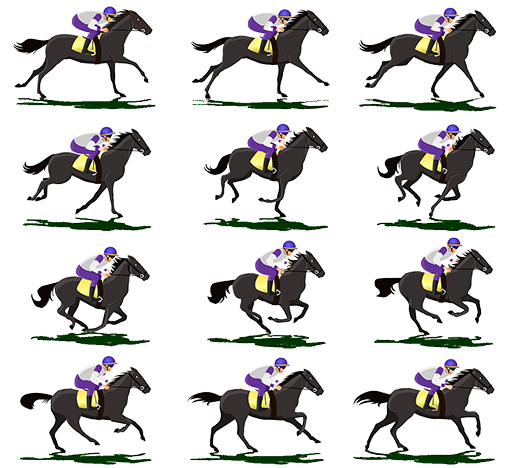
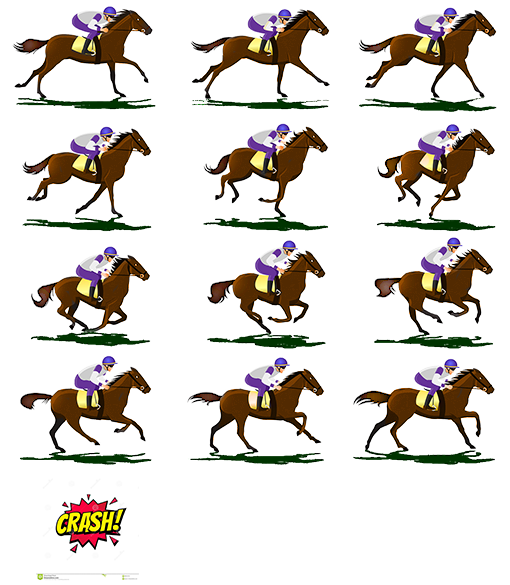
Crash

diff --git a/js/entities/entities.min.js b/js/entities/entities.min.js
@@ -1,1 +1,1 @@
-game.BirdEntity=me.Entity.extend({init:function(a,c){var b={};b.image="player";b.width=170;b.height=117;this._super(me.Entity,"init",[a,c,b]);this.alwaysUpdate=true;this.body.gravity=0.2;this.maxAngleRotation=Number.prototype.degToRad(-30);this.maxAngleRotationDown=Number.prototype.degToRad(35);this.renderable.addAnimation("flying",[0,1,2,3,4,5,6,7,8,9,10,11,12]);this.renderable.addAnimation("idle",[0]);this.renderable.setCurrentAnimation("flying");this.body.removeShapeAt(0);this.body.addShape(new me.Polygon(0,0,[new me.Vector2d(-50,25),new me.Vector2d(-50,-25),new me.Vector2d(50,0)]));this.flyTween=new me.Tween(this.pos);this.flyTween.easing(me.Tween.Easing.Exponential.InOut);this.currentAngle=0;this.angleTween=new me.Tween(this);this.angleTween.easing(me.Tween.Easing.Exponential.InOut);this.endTween=null;this.collided=false;this.gravityForce=0.2},update:function(c){var b=this;this.pos.x=100;if(!game.data.start){return this._super(me.Entity,"update",[c])}this._super(me.Entity,"update",[c]);if(me.input.keyStatus("fly")){game.data.pressed=game.data.pressed||[];game.data.pressed.push(Math.round(game.data.steps*100));this.gravityForce-=0.5}else{this.gravityForce+=0.2}if(this.gravityForce<-2){this.gravityForce=-2}if(this.gravityForce>2){this.gravityForce=2}this.pos.y+=me.timer.tick*this.gravityForce;var d=900-this.pos.y;d=d/500;me.collision.check(this);game.data.steps+=0.01;var a=300;if(this.pos.y<=a||this.collided){game.data.start=false;this.endAnimation();return false}return true},onCollision:function(a){var b=a.b;if(b.type==="horse"||b.type==="fence"){me.device.vibrate(500);this.collided=true}},endAnimation:function(){me.game.viewport.fadeOut("#fff",100);var a=this.pos.y;this.endTween=new me.Tween(this.pos);this.endTween.easing(me.Tween.Easing.Exponential.InOut);this.flyTween.stop();this.renderable.currentTransform.identity();this.renderable.currentTransform.rotate(Number.prototype.degToRad(90));var b=me.game.viewport.height-this.renderable.width/2-82;this.endTween.to({y:a},1000).to({y:b},1000).onComplete(function(){me.state.change(me.state.GAME_OVER)});this.endTween.start()}});game.DeskEntity=me.Entity.extend({init:function(a,g){var c={};var b=true;if(game.random()>0.5){b=false;c.image=this.image=me.loader.getImage("desk_lrg");c.width=375;c.height=400;c.framewidth=375;c.frameheight=400;a=a-80}else{c.image=this.image=me.loader.getImage("desk_sml");c.width=222;c.height=354;c.framewidth=222;c.frameheight=354;a=a-20}this._super(me.Entity,"init",[a,g,c]);this.alwaysUpdate=true;this.body.gravity=0;this.body.removeShapeAt(0);if(b){this.body.addShapesFromJSON(me.loader.getJSON("shapesdef"),"desk-sml")}else{this.body.addShapesFromJSON(me.loader.getJSON("shapesdef"),"desk-lrg")}var f=-5;var e=-15;var d=game.data.steps/-10;d+=f;this.body.vel.set(d,0);this.type="desk"},update:function(a){if(!game.data.start){return this._super(me.Entity,"update",[a])}this.pos.add(this.body.vel);if(this.pos.x<-this.image.width){me.game.world.removeChild(this)}me.Rect.prototype.updateBounds.apply(this);this._super(me.Entity,"update",[a]);return true},});game.CabinetEntity=me.Entity.extend({init:function(a,f){var b={};b.image=this.image=me.loader.getImage("cabinet");b.width=172;b.height=453;b.framewidth=172;b.frameheight=453;this._super(me.Entity,"init",[a,f,b]);this.alwaysUpdate=true;this.body.gravity=0;var e=-5;var d=-15;var c=game.data.steps/-10;c+=e;this.body.removeShapeAt(0);this.body.addShapesFromJSON(me.loader.getJSON("shapesdef"),"office_assets_kiwi_cabinet");this.body.vel.set(c,0);this.type="cabinet"},update:function(a){if(!game.data.start){return this._super(me.Entity,"update",[a])}this.pos.add(this.body.vel);if(this.pos.x<-this.image.width){me.game.world.removeChild(this)}me.Rect.prototype.updateBounds.apply(this);this._super(me.Entity,"update",[a]);return true},});game.RivalEntityRed=me.Entity.extend({init:function(a,f){var b={};b.image=this.image=me.loader.getImage("rival2");b.width=170;b.height=117;this._super(me.Entity,"init",[a,f,b]);this.alwaysUpdate=true;this.body.gravity=0;var e=-5;var d=-15;var c=game.data.steps/-10;c+=e;this.body.vel.set(c,0);this.type="horse"},update:function(a){if(!game.data.start){return this._super(me.Entity,"update",[a])}this.pos.add(this.body.vel);if(this.pos.x<-100){me.game.world.removeChild(this)}me.Rect.prototype.updateBounds.apply(this);this._super(me.Entity,"update",[a]);return true},});game.RivalEntityPurple=me.Entity.extend({init:function(a,f){var b={};b.image=this.image=me.loader.getImage("rival3");b.width=170;b.height=117;this._super(me.Entity,"init",[a,f,b]);this.alwaysUpdate=true;this.body.gravity=0;var e=-5;var d=-15;var c=game.data.steps/-10;c+=e;this.body.vel.set(c,0);this.type="horse"},update:function(a){if(!game.data.start){return this._super(me.Entity,"update",[a])}this.pos.add(this.body.vel);if(this.pos.x<-100){me.game.world.removeChild(this)}me.Rect.prototype.updateBounds.apply(this);this._super(me.Entity,"update",[a]);return true},});game.RivalEntityPink=me.Entity.extend({init:function(a,f){var b={};b.image=this.image=me.loader.getImage("rival1");b.width=170;b.height=117;this._super(me.Entity,"init",[a,f,b]);this.alwaysUpdate=true;this.body.gravity=0;var e=-5;var d=-15;var c=game.data.steps/-10;c+=e;this.body.vel.set(c,0);this.type="horse"},update:function(a){if(!game.data.start){return this._super(me.Entity,"update",[a])}this.pos.add(this.body.vel);if(this.pos.x<-100){me.game.world.removeChild(this)}me.Rect.prototype.updateBounds.apply(this);this._super(me.Entity,"update",[a]);return true},});game.PipeGenerator=me.Renderable.extend({init:function(){this._super(me.Renderable,"init",[0,me.game.viewport.width,me.game.viewport.height,92]);this.alwaysUpdate=true;this.generate=0;this.pipeFrequency=92;this.pipeHoleSize=1340;this.posX=me.game.viewport.width},update:function(c){if(this.generate++%this.pipeFrequency==0){var d=(game.random()*500)+350;console.log(d);var b=game.random();if(b<0.333){var a=new me.pool.pull("rival_horse_1",this.posX,d)}else{if(b<0.667){var a=new me.pool.pull("rival_horse_2",this.posX,d)}else{var a=new me.pool.pull("rival_horse_3",this.posX,d)}}me.game.world.addChild(a,10)}this._super(me.Entity,"update",[c])},});game.TextInput=me.Renderable.extend({init:function(a,e,b,c,d){this.$input=$('<input type="'+b+'" required placeholder="'+d+'">').css({left:a,top:e});switch(b){case"text":this.$input.attr("maxlength",c).attr("pattern","[a-zA-Z0-9_-]+");break;case"number":this.$input.attr("max",c);break}$(me.video.getWrapper()).append(this.$input)},destroy:function(){this.$input.remove()}});game.Fence=me.Entity.extend({init:function(a,d,c){var b={};b.image=me.loader.getImage("fence");b.width=707;b.height=126;this._super(me.Entity,"init",[a,d,b]);this.alwaysUpdate=true;this.body.gravity=0;this.body.vel.set(-c,0);this.type="fence";this.body.removeShapeAt(0);this.body.addShape(new me.Rect(0,60,707,30))},update:function(a){this.pos.add(this.body.vel);if(this.pos.x<-this.renderable.width){this.pos.x=me.video.renderer.getWidth()-100}me.Rect.prototype.updateBounds.apply(this);return this._super(me.Entity,"update",[a])},});game.RestartButton=me.GUI_Object.extend({init:function(a,c){var b={};b.image="try_again";b.spritewidth=62;b.spriteheight=84;this.floating=true;this._super(me.GUI_Object,"init",[a,c,b])},onClick:function(a){console.log("Tweetybird restrt");me.state.change(me.state.MENU);return false},onOver:function(a){document.body.style.cursor="pointer"},onOut:function(a){document.body.style.cursor="auto"}});
+game.BirdEntity=me.Entity.extend({init:function(a,c){var b={};b.image="player";b.width=170;b.height=117;this._super(me.Entity,"init",[a,c,b]);this.alwaysUpdate=true;this.body.gravity=0.2;this.maxAngleRotation=Number.prototype.degToRad(-30);this.maxAngleRotationDown=Number.prototype.degToRad(35);this.renderable.addAnimation("flying",[0,1,2,3,4,5,6,7,8,9,10,11]);this.renderable.addAnimation("idle",[0]);this.renderable.addAnimation("crash",[12]);this.renderable.setCurrentAnimation("flying");this.body.removeShapeAt(0);this.body.addShape(new me.Polygon(0,0,[new me.Vector2d(-50,25),new me.Vector2d(-50,-25),new me.Vector2d(50,0)]));this.flyTween=new me.Tween(this.pos);this.flyTween.easing(me.Tween.Easing.Exponential.InOut);this.currentAngle=0;this.angleTween=new me.Tween(this);this.angleTween.easing(me.Tween.Easing.Exponential.InOut);this.endTween=null;this.collided=false;this.gravityForce=0.2},update:function(c){var b=this;this.pos.x=100;if(!game.data.start){return this._super(me.Entity,"update",[c])}this._super(me.Entity,"update",[c]);if(me.input.keyStatus("fly")){game.data.pressed=game.data.pressed||[];game.data.pressed.push(Math.round(game.data.steps*100));this.gravityForce-=0.5}else{this.gravityForce+=0.2}if(this.gravityForce<-2){this.gravityForce=-2}if(this.gravityForce>2){this.gravityForce=2}this.pos.y+=me.timer.tick*this.gravityForce;var d=900-this.pos.y;d=d/500;me.collision.check(this);game.data.steps+=0.01;var a=300;if(this.pos.y<=a||this.collided){game.data.start=false;this.endAnimation();return false}return true},onCollision:function(a){var b=a.b;if(b.type==="horse"||b.type==="fence"){me.device.vibrate(500);this.collided=true}},endAnimation:function(){me.game.viewport.fadeOut("#fff",100);var a=this.pos.y;this.renderable.setCurrentAnimation("crash");setTimeout(function(){me.state.change(me.state.GAME_OVER)},1000)}});game.DeskEntity=me.Entity.extend({init:function(a,g){var c={};var b=true;if(game.random()>0.5){b=false;c.image=this.image=me.loader.getImage("desk_lrg");c.width=375;c.height=400;c.framewidth=375;c.frameheight=400;a=a-80}else{c.image=this.image=me.loader.getImage("desk_sml");c.width=222;c.height=354;c.framewidth=222;c.frameheight=354;a=a-20}this._super(me.Entity,"init",[a,g,c]);this.alwaysUpdate=true;this.body.gravity=0;this.body.removeShapeAt(0);if(b){this.body.addShapesFromJSON(me.loader.getJSON("shapesdef"),"desk-sml")}else{this.body.addShapesFromJSON(me.loader.getJSON("shapesdef"),"desk-lrg")}var f=-5;var e=-15;var d=game.data.steps/-10;d+=f;this.body.vel.set(d,0);this.type="desk"},update:function(a){if(!game.data.start){return this._super(me.Entity,"update",[a])}this.pos.add(this.body.vel);if(this.pos.x<-this.image.width){me.game.world.removeChild(this)}me.Rect.prototype.updateBounds.apply(this);this._super(me.Entity,"update",[a]);return true},});game.CabinetEntity=me.Entity.extend({init:function(a,f){var b={};b.image=this.image=me.loader.getImage("cabinet");b.width=172;b.height=453;b.framewidth=172;b.frameheight=453;this._super(me.Entity,"init",[a,f,b]);this.alwaysUpdate=true;this.body.gravity=0;var e=-5;var d=-15;var c=game.data.steps/-10;c+=e;this.body.removeShapeAt(0);this.body.addShapesFromJSON(me.loader.getJSON("shapesdef"),"office_assets_kiwi_cabinet");this.body.vel.set(c,0);this.type="cabinet"},update:function(a){if(!game.data.start){return this._super(me.Entity,"update",[a])}this.pos.add(this.body.vel);if(this.pos.x<-this.image.width){me.game.world.removeChild(this)}me.Rect.prototype.updateBounds.apply(this);this._super(me.Entity,"update",[a]);return true},});game.RivalEntityRed=me.Entity.extend({init:function(a,f){var b={};b.image=this.image=me.loader.getImage("rival2");b.width=170;b.height=117;this._super(me.Entity,"init",[a,f,b]);this.alwaysUpdate=true;this.body.gravity=0;var e=-5;var d=-15;var c=game.data.steps/-10;c+=e;this.body.vel.set(c,0);this.type="horse"},update:function(a){if(!game.data.start){return this._super(me.Entity,"update",[a])}this.pos.add(this.body.vel);if(this.pos.x<-100){me.game.world.removeChild(this)}me.Rect.prototype.updateBounds.apply(this);this._super(me.Entity,"update",[a]);return true},});game.RivalEntityPurple=me.Entity.extend({init:function(a,f){var b={};b.image=this.image=me.loader.getImage("rival3");b.width=170;b.height=117;this._super(me.Entity,"init",[a,f,b]);this.alwaysUpdate=true;this.body.gravity=0;var e=-5;var d=-15;var c=game.data.steps/-10;c+=e;this.body.vel.set(c,0);this.type="horse"},update:function(a){if(!game.data.start){return this._super(me.Entity,"update",[a])}this.pos.add(this.body.vel);if(this.pos.x<-100){me.game.world.removeChild(this)}me.Rect.prototype.updateBounds.apply(this);this._super(me.Entity,"update",[a]);return true},});game.RivalEntityPink=me.Entity.extend({init:function(a,f){var b={};b.image=this.image=me.loader.getImage("rival1");b.width=170;b.height=117;this._super(me.Entity,"init",[a,f,b]);this.alwaysUpdate=true;this.body.gravity=0;var e=-5;var d=-15;var c=game.data.steps/-10;c+=e;this.body.vel.set(c,0);this.type="horse"},update:function(a){if(!game.data.start){return this._super(me.Entity,"update",[a])}this.pos.add(this.body.vel);if(this.pos.x<-100){me.game.world.removeChild(this)}me.Rect.prototype.updateBounds.apply(this);this._super(me.Entity,"update",[a]);return true},});game.PipeGenerator=me.Renderable.extend({init:function(){this._super(me.Renderable,"init",[0,me.game.viewport.width,me.game.viewport.height,92]);this.alwaysUpdate=true;this.generate=0;this.pipeFrequency=92;this.pipeHoleSize=1340;this.posX=me.game.viewport.width},update:function(c){if(this.generate++%this.pipeFrequency==0){var d=(game.random()*500)+350;console.log(d);var b=game.random();if(b<0.333){var a=new me.pool.pull("rival_horse_1",this.posX,d)}else{if(b<0.667){var a=new me.pool.pull("rival_horse_2",this.posX,d)}else{var a=new me.pool.pull("rival_horse_3",this.posX,d)}}me.game.world.addChild(a,10)}this._super(me.Entity,"update",[c])},});game.TextInput=me.Renderable.extend({init:function(a,e,b,c,d){this.$input=$('<input type="'+b+'" required placeholder="'+d+'">').css({left:a,top:e});switch(b){case"text":this.$input.attr("maxlength",c).attr("pattern","[a-zA-Z0-9_-]+");break;case"number":this.$input.attr("max",c);break}$(me.video.getWrapper()).append(this.$input)},destroy:function(){this.$input.remove()}});game.Fence=me.Entity.extend({init:function(a,d,c){var b={};b.image=me.loader.getImage("fence");b.width=707;b.height=126;this._super(me.Entity,"init",[a,d,b]);this.alwaysUpdate=true;this.body.gravity=0;this.body.vel.set(-c,0);this.type="fence";this.body.removeShapeAt(0);this.body.addShape(new me.Rect(0,60,707,30))},update:function(a){this.pos.add(this.body.vel);if(this.pos.x<-this.renderable.width){this.pos.x=me.video.renderer.getWidth()-100}me.Rect.prototype.updateBounds.apply(this);return this._super(me.Entity,"update",[a])},});game.Sky=me.Entity.extend({init:function(a,c){var b={};b.image=me.loader.getImage("sky");b.width=956;b.height=350;this._super(me.Entity,"init",[a,c,b]);this.alwaysUpdate=true;this.body.gravity=0;this.body.vel.set(-0.2,0);this.type="sky";this.body.removeShapeAt(0)},update:function(a){this.pos.add(this.body.vel);if(this.pos.x<-this.renderable.width){this.pos.x=me.video.renderer.getWidth()-100}me.Rect.prototype.updateBounds.apply(this);return this._super(me.Entity,"update",[a])},});game.RestartButton=me.GUI_Object.extend({init:function(a,c){var b={};b.image="try_again";b.spritewidth=62;b.spriteheight=84;this.floating=true;this._super(me.GUI_Object,"init",[a,c,b])},onClick:function(a){console.log("Tweetybird restrt");me.state.change(me.state.MENU);return false},onOver:function(a){document.body.style.cursor="pointer"},onOut:function(a){document.body.style.cursor="auto"}});

diff --git a/js/screens/gameover.min.js b/js/screens/gameover.min.js
@@ -1,1 +1,1 @@
-game.GameOverScreen=me.ScreenObject.extend({init:function(){this.savedData=null;this.handler=null},onResetEvent:function(){this.savedData={score:game.data.score,steps:game.data.steps};me.save.add(this.savedData);if(!me.save.topSteps){me.save.add({topSteps:game.data.steps})}if(!me.save.topPressed){me.save.add({topPressed:game.data.pressed})}if(!me.save.topSeed){me.save.add({topPressed:game.data.initialSeed})}if(game.data.steps>me.save.topSteps){me.save.topSteps=game.data.steps;me.save.topPressed=game.data.pressed;me.save.topSeed=game.data.initialSeed;game.data.newHiScore=true}me.input.bindKey(me.input.KEY.SPACE,"enter",false);this.handler=me.event.subscribe(me.event.KEYDOWN,function(e,f,d){if(e==="enter"){me.state.change(me.state.MENU)}});var c=new me.Sprite(me.game.viewport.width/2,me.game.viewport.height/2,{image:"gameoverbg"});var c=new me.Sprite(me.game.viewport.width/2,me.game.viewport.height/2,{image:"gameoverbg"});me.game.world.addChild(c,10);me.game.world.addChild(new BackgroundLayer("bg",1));this.fence1=me.pool.pull("fence",0,me.game.viewport.height-100,4);this.fence2=me.pool.pull("fence",me.game.viewport.width,me.video.renderer.getHeight()-100,4);me.game.world.addChild(this.fence1,11);me.game.world.addChild(this.fence2,11);var a=this;this.dialog=new (me.Renderable.extend({init:function(){this._super(me.Renderable,"init",[0,0,me.game.viewport.width/2,me.game.viewport.height/2]);this.yourScoreFont=new me.Font("gamefont",20,"white","center");this.scoreFont=new me.Font("gamefont",40,"white","center");this.highScoreFont=new me.Font("gamefont",20,"white","center")},draw:function(e){var d=this.scoreFont.measureText(e,game.data.steps.toFixed(2));this.scoreFont.draw(e,game.data.steps.toFixed(2),me.game.viewport.width/2+d.width/2+40,me.game.viewport.height/2+50);this.highScoreFont.draw(e,"High score: "+me.save.topSteps.toFixed(2),me.game.viewport.width/2+d.width,me.game.viewport.height/2+120)}}));me.game.world.addChild(this.dialog,12);this.restart=new me.pool.pull("restart_button",300,400);me.game.world.addChild(this.restart,14);var b=me.Renderable.extend({init:function(d,h,f,g){var e=me.device.getPixelRatio();if(e>1){d=(d/e);h=(h/e)}this.$input=$('<input type="image" id="enterCompNative" src="/wp-content/plugins/velocity-game/data/img/enter_comp_button.png">').css({left:d,top:h});if(e>1){this.$input.css({width:220/e,height:34/e})}this.$input.click(a.submitResults.bind(a));switch(f){case"text":this.$input.attr("maxlength",g).attr("pattern","[a-zA-Z0-9_-]+");break;case"number":this.$input.attr("max",g);break}$(me.video.getWrapper()).append(this.$input)},destroy:function(){this.$input.remove()}});this.enterCompNative=new b(514,413);me.game.world.addChild(this.enterCompNative,14)},submitResults:function(){var a=this;FB.getLoginStatus(function(b){a.statusChangeCallback(b)});return false},statusChangeCallback:function(b){var a=this;if(b.status==="connected"){a.doSubmitScores()}else{FB.login(function(c){if(c.status==="connected"){a.doSubmitScores()}else{alert("You need to be logged in to facebook to submit your score!")}},{scope:"email"})}},doSubmitScores:function(){FB.api("/me?fields=id,name,email",function(a){$.ajax({type:"POST",url:wpAjaxUrl,data:{action:"submit_game_score",name:a.name,email:a.email,personid:a.id,seed:me.save.topSeed,data:JSON.stringify(me.save.topPressed),score:me.save.topSteps},success:function(b){alert("Your high score has been submitted, good luck!")},error:function(){alert("Sorry, there was an error submitting your score!")}})})},onDestroyEvent:function(){me.event.unsubscribe(this.handler);me.input.unbindKey(me.input.KEY.SPACE);this.fence1=null;this.fence2=null;this.font=null;this.tweet=null;this.restart=null;this.gameOverBG=null}});
+game.GameOverScreen=me.ScreenObject.extend({init:function(){this.savedData=null;this.handler=null},onResetEvent:function(){this.savedData={score:game.data.score,steps:game.data.steps};me.save.add(this.savedData);if(!me.save.topSteps){me.save.add({topSteps:game.data.steps})}if(!me.save.topPressed){me.save.add({topPressed:game.data.pressed})}if(!me.save.topSeed){me.save.add({topPressed:game.data.initialSeed})}if(game.data.steps>me.save.topSteps){me.save.topSteps=game.data.steps;me.save.topPressed=game.data.pressed;me.save.topSeed=game.data.initialSeed;game.data.newHiScore=true}me.input.bindKey(me.input.KEY.SPACE,"enter",false);this.handler=me.event.subscribe(me.event.KEYDOWN,function(e,f,d){if(e==="enter"){me.state.change(me.state.MENU)}});var c=new me.Sprite(me.game.viewport.width/2,me.game.viewport.height/2,{image:"gameoverbg"});var c=new me.Sprite(me.game.viewport.width/2,me.game.viewport.height/2,{image:"gameoverbg"});me.game.world.addChild(c,10);me.game.world.addChild(new BackgroundLayer("bgstatic",1));this.fence1=me.pool.pull("fence",0,me.game.viewport.height-100,4);this.fence2=me.pool.pull("fence",me.game.viewport.width,me.video.renderer.getHeight()-100,4);me.game.world.addChild(this.fence1,11);me.game.world.addChild(this.fence2,11);var a=this;this.dialog=new (me.Renderable.extend({init:function(){this._super(me.Renderable,"init",[0,0,me.game.viewport.width/2,me.game.viewport.height/2]);this.yourScoreFont=new me.Font("gamefont",20,"white","center");this.scoreFont=new me.Font("gamefont",40,"white","center");this.highScoreFont=new me.Font("gamefont",20,"white","center")},draw:function(e){var d=this.scoreFont.measureText(e,game.data.steps.toFixed(2));this.scoreFont.draw(e,game.data.steps.toFixed(2),me.game.viewport.width/2+d.width/2+40,me.game.viewport.height/2+50);this.highScoreFont.draw(e,"High score: "+me.save.topSteps.toFixed(2),me.game.viewport.width/2+d.width,me.game.viewport.height/2+120)}}));me.game.world.addChild(this.dialog,12);this.restart=new me.pool.pull("restart_button",300,400);me.game.world.addChild(this.restart,14);var b=me.Renderable.extend({init:function(d,h,f,g){var e=me.device.getPixelRatio();if(e>1){d=(d/e);h=(h/e)}this.$input=$('<input type="image" id="enterCompNative" src="/wp-content/plugins/velocity-game/data/img/enter_comp_button.png">').css({left:d,top:h});if(e>1){this.$input.css({width:220/e,height:34/e})}this.$input.click(a.submitResults.bind(a));switch(f){case"text":this.$input.attr("maxlength",g).attr("pattern","[a-zA-Z0-9_-]+");break;case"number":this.$input.attr("max",g);break}$(me.video.getWrapper()).append(this.$input)},destroy:function(){this.$input.remove()}});this.enterCompNative=new b(514,413);me.game.world.addChild(this.enterCompNative,14)},submitResults:function(){var a=this;FB.getLoginStatus(function(b){a.statusChangeCallback(b)});return false},statusChangeCallback:function(b){var a=this;if(b.status==="connected"){a.doSubmitScores()}else{FB.login(function(c){if(c.status==="connected"){a.doSubmitScores()}else{alert("You need to be logged in to facebook to submit your score!")}},{scope:"email"})}},doSubmitScores:function(){FB.api("/me?fields=id,name,email",function(a){$.ajax({type:"POST",url:wpAjaxUrl,data:{action:"submit_game_score",name:a.name,email:a.email,personid:a.id,seed:me.save.topSeed,data:JSON.stringify(me.save.topPressed),score:me.save.topSteps},success:function(b){alert("Your high score has been submitted, good luck!")},error:function(){alert("Sorry, there was an error submitting your score!")}})})},onDestroyEvent:function(){me.event.unsubscribe(this.handler);me.input.unbindKey(me.input.KEY.SPACE);this.fence1=null;this.fence2=null;this.font=null;this.tweet=null;this.restart=null;this.gameOverBG=null}});

diff --git a/js/screens/play.min.js b/js/screens/play.min.js
@@ -1,1 +1,1 @@
-game.PlayScreen=me.ScreenObject.extend({init:function(){var a=me.device.ua.indexOf("Firefox")!==-1?0.3:0.5;me.audio.setVolume(a);this._super(me.ScreenObject,"init")},onResetEvent:function(){me.game.reset();me.input.bindKey(me.input.KEY.SPACE,"fly",true);game.data.score=0;game.data.steps=0;game.data.start=false;game.data.newHiscore=false;game.data.pressed=[];game.data.initialSeed=game.data.seed;this.bg=new BackgroundLayer("bg",1);me.game.world.addChild(this.bg);this.bottomFence1=me.pool.pull("fence",0,me.game.viewport.height-100,4);this.bottomFence2=me.pool.pull("fence",me.game.viewport.width,me.game.viewport.height-100,4);me.game.world.addChild(this.bottomFence1,11);me.game.world.addChild(this.bottomFence2,11);this.topFence1=me.pool.pull("fence",0,me.game.viewport.height/3-60,1);this.topFence2=me.pool.pull("fence",me.game.viewport.width,me.game.viewport.height/3-60,1);me.game.world.addChild(this.topFence1,3);me.game.world.addChild(this.topFence2,3);this.HUD=new game.HUD.Container();me.game.world.addChild(this.HUD,11);this.bird=me.pool.pull("player",60,me.game.viewport.height/2);me.game.world.addChild(this.bird,10);me.input.bindPointer(me.input.pointer.LEFT,me.input.KEY.SPACE);this.getReady=new me.Sprite(me.game.viewport.width/2,me.game.viewport.height/2,{image:"getready"});me.game.world.addChild(this.getReady,11);var b=this;var a=new me.Tween(this.getReady).to({alpha:0},2000).easing(me.Tween.Easing.Linear.None).onComplete(function(){game.data.start=true;me.game.world.addChild(new game.PipeGenerator(),0);me.game.world.removeChild(b.getReady)}).start()},onDestroyEvent:function(){me.game.world.removeChild(this.HUD);me.game.world.removeChild(this.bird);me.game.world.removeChild(this.bg);this.HUD=null;this.bird=null;this.bottomFence1=null;this.bottomFence2=null;this.bg=null;me.input.unbindKey(me.input.KEY.SPACE);me.input.unbindPointer(me.input.pointer.LEFT)}});
+game.PlayScreen=me.ScreenObject.extend({init:function(){var a=me.device.ua.indexOf("Firefox")!==-1?0.3:0.5;me.audio.setVolume(a);this._super(me.ScreenObject,"init")},onResetEvent:function(){me.game.reset();me.input.bindKey(me.input.KEY.SPACE,"fly",true);game.data.score=0;game.data.steps=0;game.data.start=false;game.data.newHiscore=false;game.data.pressed=[];game.data.initialSeed=game.data.seed;this.sky=me.pool.pull("sky",0,0);me.game.world.addChild(this.sky,0);this.sky1=me.pool.pull("sky",me.game.viewport.width,0);me.game.world.addChild(this.sky1,0);this.bg=new BackgroundLayer("bg",1);me.game.world.addChild(this.bg);this.bottomFence1=me.pool.pull("fence",0,me.game.viewport.height-100,4);this.bottomFence2=me.pool.pull("fence",me.game.viewport.width,me.game.viewport.height-100,4);me.game.world.addChild(this.bottomFence1,11);me.game.world.addChild(this.bottomFence2,11);this.topFence1=me.pool.pull("fence",0,me.game.viewport.height/3-60,1);this.topFence2=me.pool.pull("fence",me.game.viewport.width,me.game.viewport.height/3-60,1);me.game.world.addChild(this.topFence1,3);me.game.world.addChild(this.topFence2,3);this.HUD=new game.HUD.Container();me.game.world.addChild(this.HUD,11);this.bird=me.pool.pull("player",60,me.game.viewport.height/2);me.game.world.addChild(this.bird,10);me.input.bindPointer(me.input.pointer.LEFT,me.input.KEY.SPACE);this.getReady=new me.Sprite(me.game.viewport.width/2,me.game.viewport.height/2,{image:"getready"});me.game.world.addChild(this.getReady,11);var b=this;var a=new me.Tween(this.getReady).to({alpha:0},2000).easing(me.Tween.Easing.Linear.None).onComplete(function(){game.data.start=true;me.game.world.addChild(new game.PipeGenerator(),0);me.game.world.removeChild(b.getReady)}).start()},onDestroyEvent:function(){me.game.world.removeChild(this.HUD);me.game.world.removeChild(this.bird);me.game.world.removeChild(this.bg);this.HUD=null;this.bird=null;this.bottomFence1=null;this.bottomFence2=null;this.sky=null;this.sky1=null;this.bg=null;me.input.unbindKey(me.input.KEY.SPACE);me.input.unbindPointer(me.input.pointer.LEFT)}});

diff --git a/js/screens/title.min.js b/js/screens/title.min.js
@@ -1,1 +1,1 @@
-game.TitleScreen=me.ScreenObject.extend({init:function(){this._super(me.ScreenObject,"init");this.font=null;this.fence1=null;this.fence2=null;this.logo=null},onResetEvent:function(){var b=this;game.data.newHiScore=false;me.game.world.addChild(new BackgroundLayer("bg",1));me.input.bindKey(me.input.KEY.ENTER,"enter",true);me.input.bindKey(me.input.KEY.SPACE,"enter",true);me.input.bindPointer(me.input.pointer.LEFT,me.input.KEY.ENTER);this.handler=me.event.subscribe(me.event.KEYDOWN,function(e,f,d){if(e==="enter"){me.state.change(me.state.PLAY)}});this.logo=new me.Sprite(me.game.viewport.width/2-255,me.game.viewport.height/2-20,{image:"player",framewidth:510});me.game.world.addChild(this.logo,10);var c=this;var a=me.pool.pull("me.Tween",this.logo.pos).to({y:me.game.viewport.height/2-100},1000).easing(me.Tween.Easing.Exponential.InOut).start();this.fence1=me.pool.pull("fence",0,me.video.renderer.getHeight()-100,4);this.fence2=me.pool.pull("fence",me.video.renderer.getWidth(),me.video.renderer.getHeight()-100,4);me.game.world.addChild(this.fence1,11);me.game.world.addChild(this.fence2,11);me.game.world.addChild(new (me.Renderable.extend({init:function(){this._super(me.Renderable,"init",[0,0,100,100]);this.text=me.device.touch?"Tap to start":"PRESS SPACE OR CLICK LEFT MOUSE BUTTON TO START";this.font=new me.Font("gamefont",20,"#000")},draw:function(f){var e=this.font.measureText(f,this.text);var d=me.game.viewport.width/2-e.width/2;var g=me.game.viewport.height/2+50;this.font.draw(f,this.text,d,g)}})),12)},onDestroyEvent:function(){me.event.unsubscribe(this.handler);me.input.unbindKey(me.input.KEY.ENTER);me.input.unbindKey(me.input.KEY.SPACE);me.input.unbindPointer(me.input.pointer.LEFT);this.fence1=null;this.fence2=null;this.logo=null}});
+game.TitleScreen=me.ScreenObject.extend({init:function(){this._super(me.ScreenObject,"init");this.font=null;this.fence1=null;this.fence2=null;this.logo=null},onResetEvent:function(){var b=this;game.data.newHiScore=false;me.game.world.addChild(new BackgroundLayer("bgstatic",1));me.input.bindKey(me.input.KEY.ENTER,"enter",true);me.input.bindKey(me.input.KEY.SPACE,"enter",true);me.input.bindPointer(me.input.pointer.LEFT,me.input.KEY.ENTER);this.handler=me.event.subscribe(me.event.KEYDOWN,function(e,f,d){if(e==="enter"){me.state.change(me.state.PLAY)}});this.logo=new me.Sprite(me.game.viewport.width/2-255,me.game.viewport.height/2-20,{image:"player",framewidth:510});me.game.world.addChild(this.logo,10);var c=this;var a=me.pool.pull("me.Tween",this.logo.pos).to({y:me.game.viewport.height/2-100},1000).easing(me.Tween.Easing.Exponential.InOut).start();this.fence1=me.pool.pull("fence",0,me.video.renderer.getHeight()-100,4);this.fence2=me.pool.pull("fence",me.video.renderer.getWidth(),me.video.renderer.getHeight()-100,4);me.game.world.addChild(this.fence1,11);me.game.world.addChild(this.fence2,11);me.game.world.addChild(new (me.Renderable.extend({init:function(){this._super(me.Renderable,"init",[0,0,100,100]);this.text=me.device.touch?"Tap to start":"PRESS SPACE OR CLICK LEFT MOUSE BUTTON TO START";this.font=new me.Font("gamefont",20,"#000")},draw:function(f){var e=this.font.measureText(f,this.text);var d=me.game.viewport.width/2-e.width/2;var g=me.game.viewport.height/2+50;this.font.draw(f,this.text,d,g)}})),12)},onDestroyEvent:function(){me.event.unsubscribe(this.handler);me.input.unbindKey(me.input.KEY.ENTER);me.input.unbindKey(me.input.KEY.SPACE);me.input.unbindPointer(me.input.pointer.LEFT);this.fence1=null;this.fence2=null;this.logo=null}});

diff --git a/js/entities/entities.js b/js/entities/entities.js
@@ -11,8 +11,9 @@ game.BirdEntity = me.Entity.extend({
         this.body.gravity = 0.2;
         this.maxAngleRotation = Number.prototype.degToRad(-30);
         this.maxAngleRotationDown = Number.prototype.degToRad(35);
-        this.renderable.addAnimation("flying", [0, 1, 2, 3, 4, 5, 6, 7, 8, 9, 10, 11, 12]);
+        this.renderable.addAnimation("flying", [0, 1, 2, 3, 4, 5, 6, 7, 8, 9, 10, 11]);
         this.renderable.addAnimation("idle", [0]);
+        this.renderable.addAnimation("crash", [12]);
         this.renderable.setCurrentAnimation("flying");
         //this.renderable.anchorPoint = new me.Vector2d(0.1, 0.5);
         this.body.removeShapeAt(0);
@@ -97,20 +98,25 @@ game.BirdEntity = me.Entity.extend({
     endAnimation: function() {
         me.game.viewport.fadeOut("#fff", 100);
         var currentPos = this.pos.y;
-        this.endTween = new me.Tween(this.pos);
-        this.endTween.easing(me.Tween.Easing.Exponential.InOut);
+        this.renderable.setCurrentAnimation("crash");
+        //this.endTween = new me.Tween(this.pos);
+        //this.endTween.easing(me.Tween.Easing.Exponential.InOut);
 
-        this.flyTween.stop();
-        this.renderable.currentTransform.identity();
-        this.renderable.currentTransform.rotate(Number.prototype.degToRad(90));
-        var finalPos = me.game.viewport.height - this.renderable.width/2 - 82;
-        this.endTween
-            .to({y: currentPos}, 1000)
-            .to({y: finalPos}, 1000)
-            .onComplete(function() {
-                me.state.change(me.state.GAME_OVER);
-            });
-        this.endTween.start();
+        //this.flyTween.stop();
+        //this.renderable.currentTransform.identity();
+        //this.renderable.currentTransform.rotate(Number.prototype.degToRad(90));
+        //var finalPos = me.game.viewport.height - this.renderable.width/2 - 82;
+        //this.endTween
+        //    .to({y: currentPos}, 1000)
+        //    .to({y: finalPos}, 1000)
+        //    .onComplete(function() {
+        //        me.state.change(me.state.GAME_OVER);
+        //    });
+        //this.endTween.start();
+
+        setTimeout(function() {
+          me.state.change(me.state.GAME_OVER);
+        }, 1000);
     }
 
 });
@@ -449,6 +455,32 @@ game.Fence = me.Entity.extend({
         this.body.addShape(new me.Rect(0,60,707,30));
 
 
+    },
+
+    update: function(dt) {
+        // mechanics
+        this.pos.add(this.body.vel);
+        if (this.pos.x < -this.renderable.width) {
+            this.pos.x = me.video.renderer.getWidth() - 100;
+        }
+        me.Rect.prototype.updateBounds.apply(this);
+        return this._super(me.Entity, 'update', [dt]);
+    },
+
+});
+
+game.Sky = me.Entity.extend({
+    init: function(x, y) {
+        var settings = {};
+        settings.image = me.loader.getImage('sky');
+        settings.width = 956;
+        settings.height= 350;
+        this._super(me.Entity, 'init', [x, y, settings]);
+        this.alwaysUpdate = true;
+        this.body.gravity = 0;
+        this.body.vel.set(-.2, 0);
+        this.type = 'sky';
+        this.body.removeShapeAt(0);
     },
 
     update: function(dt) {

diff --git a/js/game.min.js b/js/game.min.js
@@ -1,1 +1,1 @@
-var game={data:{score:0,initialSeed:1,seed:1},random:function(){var a=Math.sin(game.data.seed++)*10000;return a-Math.floor(a)},onload:function(){if(!me.video.init(600,900,{wrapper:"screen",scale:"auto",zoomX:600,zoomY:900})){alert("Your browser does not support HTML5 canvas.");return}if(me.game.HASH.debug===true){window.onReady(function(){me.plugin.register.defer(this,me.debug.Panel,"debug",me.input.KEY.V)})}me.audio.init("mp3,ogg");me.loader.onload=this.loaded.bind(this);me.loader.preload(game.resources);me.state.change(me.state.LOADING);this.data.initialSeed=Math.random()*1000+1;this.data.seed=Math.floor(this.data.initialSeed)},loaded:function(){me.pool.register("player",game.Player);me.state.set(me.state.MENU,new game.TitleScreen());me.state.set(me.state.PLAY,new game.PlayScreen());me.state.set(me.state.GAME_OVER,new game.GameOverScreen());me.pool.register("player",game.BirdEntity);me.pool.register("cabinet",game.CabinetEntity,true);me.pool.register("desk",game.DeskEntity,true);me.pool.register("rival_horse_1",game.RivalEntityPink,true);me.pool.register("rival_horse_2",game.RivalEntityRed,true);me.pool.register("rival_horse_3",game.RivalEntityPurple,true);me.pool.register("fence",game.Fence,true);me.pool.register("restart_button",game.RestartButton,true);me.input.bindKey(me.input.KEY.SPACE,"fly",true);me.input.bindPointer(me.input.KEY.SPACE);me.save.add({version:0});if(me.save.version<1){me.save.remove("topSteps");me.save.remove("topPressed");me.save.version=1}me.state.change(me.state.PLAY)}};
+var game={data:{score:0,initialSeed:1,seed:1},random:function(){var a=Math.sin(game.data.seed++)*10000;return a-Math.floor(a)},onload:function(){if(!me.video.init(600,900,{wrapper:"screen",scale:"auto",zoomX:600,zoomY:900})){alert("Your browser does not support HTML5 canvas.");return}if(me.game.HASH.debug===true){window.onReady(function(){me.plugin.register.defer(this,me.debug.Panel,"debug",me.input.KEY.V)})}me.audio.init("mp3,ogg");me.loader.onload=this.loaded.bind(this);me.loader.preload(game.resources);me.state.change(me.state.LOADING);this.data.initialSeed=Math.random()*1000+1;this.data.seed=Math.floor(this.data.initialSeed)},loaded:function(){me.pool.register("player",game.Player);me.state.set(me.state.MENU,new game.TitleScreen());me.state.set(me.state.PLAY,new game.PlayScreen());me.state.set(me.state.GAME_OVER,new game.GameOverScreen());me.pool.register("player",game.BirdEntity);me.pool.register("cabinet",game.CabinetEntity,true);me.pool.register("desk",game.DeskEntity,true);me.pool.register("rival_horse_1",game.RivalEntityPink,true);me.pool.register("rival_horse_2",game.RivalEntityRed,true);me.pool.register("rival_horse_3",game.RivalEntityPurple,true);me.pool.register("fence",game.Fence,true);me.pool.register("sky",game.Sky,true);me.pool.register("restart_button",game.RestartButton,true);me.input.bindKey(me.input.KEY.SPACE,"fly",true);me.input.bindPointer(me.input.KEY.SPACE);me.save.add({version:0});if(me.save.version<1){me.save.remove("topSteps");me.save.remove("topPressed");me.save.version=1}me.state.change(me.state.PLAY)}};

diff --git a/js/resources.min.js b/js/resources.min.js
@@ -1,1 +1,1 @@
-game.resources=[{name:"bg",type:"image",src:"data/img/Game-bg.png"},{name:"rival1",type:"image",src:"data/img/horse_510x468_pink.png"},{name:"rival2",type:"image",src:"data/img/horse_510x468_red.png"},{name:"rival3",type:"image",src:"data/img/horse_510x468_purple.png"},{name:"player",type:"image",src:"data/img/horse_510x468.png"},{name:"fence",type:"image",src:"data/img/Game-fence.png"},{name:"gameover",type:"image",src:"data/img/gameover.png"},{name:"gameoverbg",type:"image",src:"data/img/score_container_2.png"},{name:"hit",type:"image",src:"data/img/hit.png"},{name:"getready",type:"image",src:"data/img/getready.png"},{name:"grumpybird",type:"image",src:"data/img/grumpybird.png"},{name:"light",type:"image",src:"data/img/office_assets_light.png"},{name:"cabinet",type:"image",src:"data/img/office_assets_kiwi_cabinet.png"},{name:"desk_sml",type:"image",src:"data/img/desk-sml-2.png"},{name:"desk_lrg",type:"image",src:"data/img/desk-lrg-2.png"},{name:"try_again",type:"image",src:"data/img/try_again_button.png"},{name:"enter_comp_button",type:"image",src:"data/img/enter_comp_button.png"},{name:"best_score_background",type:"image",src:"data/img/best_score_button_container.png"},{name:"shapesdef",type:"json",src:"data/json/kiwi_trace.json"}];
+game.resources=[{name:"bg",type:"image",src:"data/img/Game-grass.png"},{name:"bgstatic",type:"image",src:"data/img/Game-bg.png"},{name:"rival1",type:"image",src:"data/img/horse_510x468_pink.png"},{name:"rival2",type:"image",src:"data/img/horse_510x468_red.png"},{name:"rival3",type:"image",src:"data/img/horse_510x468_purple.png"},{name:"player",type:"image",src:"data/img/horse_510x468.png"},{name:"fence",type:"image",src:"data/img/Game-fence.png"},{name:"sky",type:"image",src:"data/img/sky.png"},{name:"crash",type:"image",src:"data/img/crash-comic-text-bubble.jpg"},{name:"gameover",type:"image",src:"data/img/gameover.png"},{name:"gameoverbg",type:"image",src:"data/img/score_container_2.png"},{name:"hit",type:"image",src:"data/img/hit.png"},{name:"getready",type:"image",src:"data/img/getready.png"},{name:"grumpybird",type:"image",src:"data/img/grumpybird.png"},{name:"light",type:"image",src:"data/img/office_assets_light.png"},{name:"cabinet",type:"image",src:"data/img/office_assets_kiwi_cabinet.png"},{name:"desk_sml",type:"image",src:"data/img/desk-sml-2.png"},{name:"desk_lrg",type:"image",src:"data/img/desk-lrg-2.png"},{name:"try_again",type:"image",src:"data/img/try_again_button.png"},{name:"enter_comp_button",type:"image",src:"data/img/enter_comp_button.png"},{name:"best_score_background",type:"image",src:"data/img/best_score_button_container.png"},{name:"shapesdef",type:"json",src:"data/json/kiwi_trace.json"}];

diff --git a/js/screens/play.js b/js/screens/play.js
@@ -22,8 +22,15 @@ game.PlayScreen = me.ScreenObject.extend({
         game.data.pressed = [];
         game.data.initialSeed = game.data.seed;
 
+
+        this.sky = me.pool.pull('sky', 0, 0);
+        me.game.world.addChild(this.sky, 0);
+        this.sky1 = me.pool.pull('sky', me.game.viewport.width, 0);
+        me.game.world.addChild(this.sky1, 0);
+
         this.bg = new BackgroundLayer('bg', 1);
         me.game.world.addChild(this.bg);
+
 
         this.bottomFence1 = me.pool.pull('fence', 0, me.game.viewport.height - 100, 4);
         this.bottomFence2 = me.pool.pull('fence', me.game.viewport.width, me.game.viewport.height - 100, 4);
@@ -72,6 +79,8 @@ game.PlayScreen = me.ScreenObject.extend({
         this.bird = null;
         this.bottomFence1 = null;
         this.bottomFence2 = null;
+        this.sky = null;
+        this.sky1 = null;
         this.bg = null;
         me.input.unbindKey(me.input.KEY.SPACE);
         me.input.unbindPointer(me.input.pointer.LEFT);

diff --git a/js/resources.js b/js/resources.js
@@ -1,10 +1,13 @@
 game.resources = [
-    {name: "bg", type:"image", src: "data/img/Game-bg.png"},
+    {name: "bg", type:"image", src: "data/img/Game-grass.png"},
+    {name: "bgstatic", type:"image", src: "data/img/Game-bg.png"},
     {name: "rival1", type: "image", src: "data/img/horse_510x468_pink.png" },
     {name: "rival2", type: "image", src: "data/img/horse_510x468_red.png" },
     {name: "rival3", type: "image", src: "data/img/horse_510x468_purple.png" },
     {name: "player", type:"image", src: "data/img/horse_510x468.png"},
     {name: "fence", type:"image", src: "data/img/Game-fence.png"},
+    {name: "sky", type:"image", src: "data/img/sky.png"},
+    {name: "crash", type:"image", src: "data/img/crash-comic-text-bubble.jpg"},
     {name: "gameover", type:"image", src: "data/img/gameover.png"},
     {name: "gameoverbg", type:"image", src: "data/img/score_container_2.png"},
     {name: "hit", type:"image", src: "data/img/hit.png"},

diff --git a/js/screens/title.js b/js/screens/title.js
@@ -12,7 +12,7 @@ game.TitleScreen = me.ScreenObject.extend({
         //me.audio.stop("theme");
         game.data.newHiScore = false;
 
-        me.game.world.addChild(new BackgroundLayer('bg', 1));
+        me.game.world.addChild(new BackgroundLayer('bgstatic', 1));
         me.input.bindKey(me.input.KEY.ENTER, "enter", true);
         me.input.bindKey(me.input.KEY.SPACE, "enter", true);
         me.input.bindPointer(me.input.pointer.LEFT, me.input.KEY.ENTER);

diff --git a/js/game.js b/js/game.js
@@ -73,6 +73,7 @@ var game = {
         me.pool.register("rival_horse_3", game.RivalEntityPurple, true);
         //me.pool.register("hit", game.HitEntity, true);
         me.pool.register("fence", game.Fence, true);
+        me.pool.register("sky", game.Sky, true);
         me.pool.register("restart_button", game.RestartButton, true);
 
         me.input.bindKey(me.input.KEY.SPACE, "fly", true);

diff --git a/js/screens/gameover.js b/js/screens/gameover.js
@@ -51,7 +51,7 @@ game.GameOverScreen = me.ScreenObject.extend({
         );
         me.game.world.addChild(gameOverBG, 10);
 
-        me.game.world.addChild(new BackgroundLayer('bg', 1));
+        me.game.world.addChild(new BackgroundLayer('bgstatic', 1));
 
         // fence
         this.fence1 = me.pool.pull('fence', 0, me.game.viewport.height - 100, 4);
